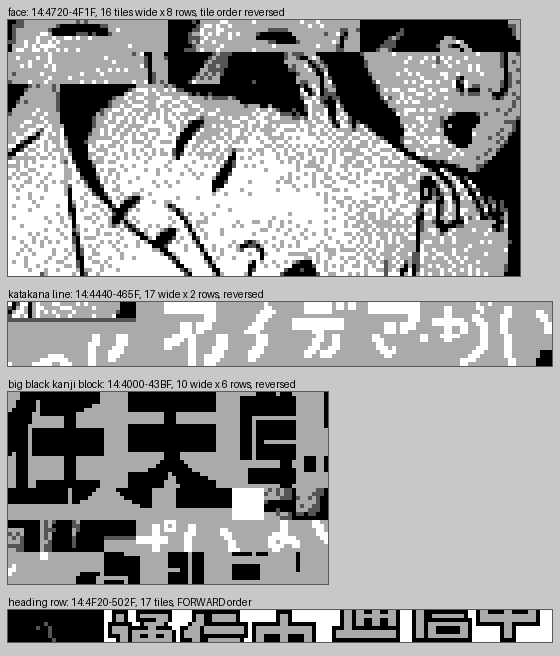
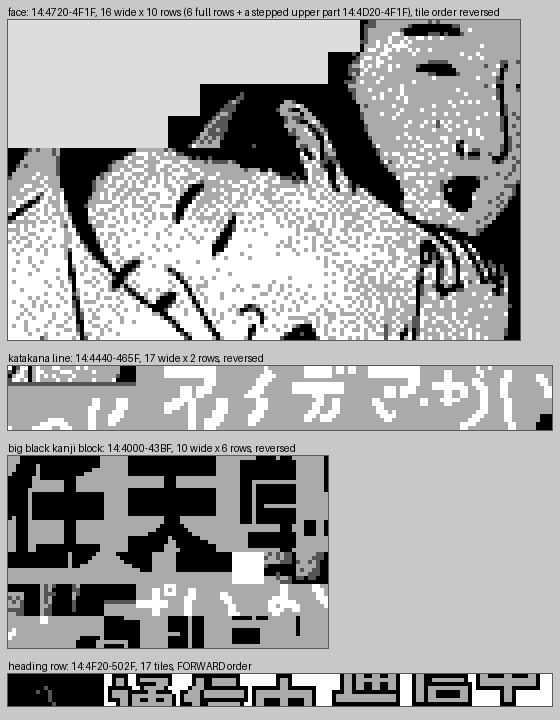
14:4720-4F1F face rebuilt: a 6 x 16 block plus a narrower right-aligned top piece
The two top rows of the 16 x 8 reading were wrong (seams 7-13 per tile edge). 14:4720-4D1F is a clean 6-row x 16 reversed block;
14:4D20-4F1F (32 tiles) is a narrower piece above it, pinned to the right edge, rows of 11, 10, 6 and 5 tiles (all vertical seams 2.2-5.4,
random pairs about 9.6). New 14_4720_face_reassembled.png, panel of 14_4000_strips_rearranged.png and rearrange_14_4000.py updated,
README 16.24 and the 14:4554 label note corrected. Evidence I: row lengths are the best reading, the upper-left corner has no stored tiles.

Claude-Session: https://claude.ai/code/session_01FyVRmHfUqNeQ8ayUFB5i6z

diff --git a/tcrf_check/tools/rearrange_14_4000.py b/tcrf_check/tools/rearrange_14_4000.py
@@ -3,9 +3,15 @@
 
 The block is a stack of tile strips of different widths, each stored with its tile order REVERSED: the last tile of a strip is its top-left
 tile, tile s has tile s+1 on its left and tile s+W above it, the tiles themselves are not flipped.  Found by edge continuity:
-  - the face (14:4720-4F1F, W = 16, 8 rows): seam cost of the right edge against the left edge of the next tile, 0.67 for "s+1 on the left"
+  - the face (14:4720-4F1F, 128 tiles = two pieces): seam cost of the right edge against the left edge of the next tile, 0.67 for "s+1 on the left"
     against 0.86 for the forward order, and of the bottom edge against the top edge, 0.67 for "s+16 above" against 1.09 for "s-16 above"
     (random pairs 1.21); the tile grid sits on $xxx0 (shifted by 4 bytes the vertical cost doubles);
+      * stream tiles 114-209 (14:4720-4D1F) are a clean 6 rows x 16 reversed block, face[r][c] = 209 - 16 r - c;
+      * stream tiles 210-241 (14:4D20-4F1F) are NOT the two top rows of a 16 x 8 block (those seams cost 7-13 per tile edge): they are a
+        narrower piece whose right edge is column 15, rows of 11, 10, 6 and 5 tiles from the bottom up (row start = rightmost tile, tiles run
+        right to left in ascending stream order).  Found by a right-aligned dynamic programme on the seam costs (mean edge cost per 8 px
+        seam 2.2-3.4 inside the rows, 2.2-3.5 against the row below; the 16-wide reading costs 7-13, an 11-wide reading 10.3 on its top row).
+        The tiles left of the steps, in the upper left corner, are not in the block: drawn as flat blue.
   - the heading row (stream tiles 242-258) is the exception: forward order, right-edge cost 69 against 144 reversed;
   - the widths of the two text strips (10 for the black kanji block, 17 for the katakana line) are read from the result, not proven.
 usage: rearrange_14_4000.py [ROM] [out.png]   (default ROM /home/claude/gbcam_jp/pocketcamera_jp.gb, env GBCAM_ROM, GBCAM_REPO)
@@ -36,9 +42,23 @@ def sheet(seq, w):
     return Image.fromarray(img).resize((w * 8 * SC, h * 8 * SC), Image.NEAREST)
 def addr(s): return '%04X' % (0x4000 + 16 * s)
 def rev(a, b, w): return sheet(T[a:b][::-1], w)
+# the face: 10 rows x 16 columns; None = no stored tile
+UP = [(237, 5), (231, 6), (221, 10), (210, 11)]       # (first stream tile = rightmost, length), top row first
+FACE = []
+for n, L in UP:
+    r = [None] * 16
+    for i in range(L): r[16 - L + i] = n + L - 1 - i
+    FACE.append(r)
+for r in range(6): FACE.append([209 - 16 * r - c for c in range(16)])
+def face_img(scale=SC):
+    img = np.zeros((len(FACE) * 8, 128, 3), np.uint8)
+    for r, row in enumerate(FACE):
+        for c, s in enumerate(row):
+            img[r * 8:r * 8 + 8, c * 8:c * 8 + 8] = (205, 225, 245) if s is None else PAL[T[s]][..., None]
+    return Image.fromarray(img).resize((128 * scale, len(FACE) * 8 * scale), Image.NEAREST)
 def fwd(a, b, w): return sheet(T[a:b], w)
 panels = [
-    ('face: 14:%s-%s, 16 tiles wide x 8 rows, tile order reversed' % (addr(114), '%04X' % (0x4000 + 16 * 242 - 1)), rev(114, 242, 16)),
+    ('face: 14:%s-%s, 16 wide x 10 rows (6 full rows + a stepped upper part 14:%s-%s), tile order reversed' % (addr(114), '%04X' % (0x4000 + 16 * 242 - 1), addr(210), '%04X' % (0x4000 + 16 * 242 - 1)), face_img().convert('L')),
     ('katakana line: 14:%s-%s, 17 wide x 2 rows, reversed' % (addr(68), '%04X' % (0x4000 + 16 * 102 - 1)), rev(68, 102, 17)),
     ('big black kanji block: 14:%s-%s, 10 wide x 6 rows, reversed' % (addr(0), '%04X' % (0x4000 + 16 * 60 - 1)), rev(0, 60, 10)),
     ('heading row: 14:%s-502F, 17 tiles, FORWARD order' % addr(242), fwd(242, 259, 17)),
@@ -51,3 +71,5 @@ for n, p in panels:
     d.text((8, y), n, fill=0); y += 14
     c.paste(p, (8, y)); d.rectangle((7, y - 1, 8 + p.size[0], y + p.size[1]), outline=90); y += p.size[1] + 12
 c.save(OUT); print(OUT, c.size)
+FACEOUT = os.path.join(os.path.dirname(OUT), '14_4720_face_reassembled.png')
+face_img(8).save(FACEOUT); print(FACEOUT)

diff --git a/README.md b/README.md
@@ -3116,7 +3116,7 @@ Table (one row per box of the charts; the node ids are the keys of `assets/guide
 
 **(2) `$2A` and `$28`: glyph banks (I).** `2A:4000-7FFF` is a glyph set: kana and ASCII glyph tiles in a small font (`tcrf_check/assets/never_read/bank2A_glyphs_*.png`, the never-read tiles tinted red). The red ones are, by eye, rows of voiced and semi-voiced katakana (ガ ギ グ ゲ ゴ … パ ピ プ ペ ポ forms, `bank2A_unread_katakana_7060-7440.png`) and of Latin letters (`bank2A_unread_latin_75D1-7A24.png`); individual glyphs were not listed. The sheet "Stamps (JPN)" (ripped by rabidrodent) matches 2,379 windows of `2A:5FFA-7886`, and 2,045 of the 2,663 untouched bytes of `$2A` (padding included) lie in windows that match it; the sheet brackets its small-font block (kana, ASCII) with the question "**Unused?**". Reading: this font block is real data whose tiles are not all drawn by the paths that were run; the sheet's question mark is the ripper's, not a finding. `28:4000-5FFF` is white-on-black Japanese text (`bank28_text_glyphs_4000-5FFF.png`, the red part is more kana text); the second half of `$28` is the credits ending picture ("Don't butter me up! Be happy!!"), which is read.
 
-**(3) The small holes (I).** In `$10` (20 B), `$17` (15 B), `$19` (16 B), `$1A` (31 B), `$1C` (78 B), `$1E` (11 B) the never-read bytes are 1-byte to 31-byte runs (a 64-byte run at `1C:5160-519F` is small icon tiles) that sit between organic reads by the generic copier `00:17E8` on both sides: bytes of tile blocks of which only some tiles are loaded. The only larger area is bank `$14`: `14:4000-502F` (259 tiles) is **not one picture and not 16 tiles wide as first read** (`bank14_banner_4000-47FF_16wide.png` is the wrong width). It is a stack of tile strips of different widths, **each stored with its tile order reversed** (the last tile of a strip is its top-left tile; the tiles themselves are not flipped: tile `s` has tile `s+1` on its left and tile `s+W` above it). Rearranged by edge continuity (width scan on the seams, then reading the result; `tcrf_check/assets/unidentified/14_4000_strips_rearranged.png`, 2026-10-13, asked by the owner): `14:4720-4F1F` is a clean **dithered manga picture, 16 tiles wide x 8 rows** (a face close-up, a second face shouting at the right); `14:4440-465F` a **katakana line** ("アイデアがい…", white on grey, 17 tiles wide x 2 rows, width the best reading); `14:4000-43BF` a **block of large black kanji** ("任天…", 10 tiles wide x 6 rows); `14:4F20-502F` a **heading row of 17 outlined kanji tiles in forward order** (the one strip that is not reversed, cost 69 against 144 reversed); `14:5030-57FF` is zero padding. The widths of the two text strips are the best reading, not proven, and where the strips meet (`14:4620-471F`, a grey row with white fragments) is not settled. The only code that read the area is the thumbnail reducer through the nibble expander `00:289C` (table at `00:36F0`), and it starts at `14:4554`, **not on a tile boundary** (`4554 mod 16 = 4`, while the picture's grid sits on `$xxx0`): the three bytes `54 45 54` at `02:527B` (inside the OAM pointer table at `02:5272`, read as entry 33 of the 30-entry `AlbumB_SlotTbl`, i.e. a photo number `$3F` reaching `Photo_GetSramAddress_Far`) decode to address `$4554`, bank `$54` = `$14` on the 6-bit mapper. So the read is a stray pointer (consistent with the start offset, not traced to the caller), and the display tracker follows these bytes to the screen for up to 21,196 frames (19,610 in organic runs) **only as a reduced thumbnail built by that reducer**, never as tiles: no code was seen that shows the strips themselves (I).
+**(3) The small holes (I).** In `$10` (20 B), `$17` (15 B), `$19` (16 B), `$1A` (31 B), `$1C` (78 B), `$1E` (11 B) the never-read bytes are 1-byte to 31-byte runs (a 64-byte run at `1C:5160-519F` is small icon tiles) that sit between organic reads by the generic copier `00:17E8` on both sides: bytes of tile blocks of which only some tiles are loaded. The only larger area is bank `$14`: `14:4000-502F` (259 tiles) is **not one picture and not 16 tiles wide as first read** (`bank14_banner_4000-47FF_16wide.png` is the wrong width). It is a stack of tile strips of different widths, **each stored with its tile order reversed** (the last tile of a strip is its top-left tile; the tiles themselves are not flipped: tile `s` has tile `s+1` on its left and tile `s+W` above it). Rearranged by edge continuity (width scan on the seams, then reading the result; `tcrf_check/assets/unidentified/14_4000_strips_rearranged.png`, 2026-10-13, asked by the owner): `14:4720-4F1F` is a clean **dithered manga picture, 16 tiles wide, in two pieces** (a face close-up, a second face shouting at the right; `tcrf_check/assets/unidentified/14_4720_face_reassembled.png`, rebuilt the same day at the owner's request): `14:4720-4D1F` (96 tiles) is a plain 6-row x 16 reversed block (`face[r][c] = 209 - 16r - c`), and `14:4D20-4F1F` (32 tiles) is **not** its two top rows (read that way the seams cost 7-13 per 8-pixel tile edge) but a narrower piece pinned to the right edge, rows of 11, 10, 6 and 5 tiles from the bottom up (found with a right-aligned dynamic programme on the seam costs; all vertical seams of the 10 rows cost 2.2-5.4 per 8-pixel edge, random pairs about 9.6, an 11-wide reading of the same 32 tiles 10.3 on its top row; the row lengths are the best reading, the tiles left of the steps are not in the block and are drawn flat blue; evidence I); `14:4440-465F` a **katakana line** ("アイデアがい…", white on grey, 17 tiles wide x 2 rows, width the best reading); `14:4000-43BF` a **block of large black kanji** ("任天…", 10 tiles wide x 6 rows); `14:4F20-502F` a **heading row of 17 outlined kanji tiles in forward order** (the one strip that is not reversed, cost 69 against 144 reversed); `14:5030-57FF` is zero padding. The widths of the two text strips are the best reading, not proven, and where the strips meet (`14:4620-471F`, a grey row with white fragments) is not settled. The only code that read the area is the thumbnail reducer through the nibble expander `00:289C` (table at `00:36F0`), and it starts at `14:4554`, **not on a tile boundary** (`4554 mod 16 = 4`, while the picture's grid sits on `$xxx0`): the three bytes `54 45 54` at `02:527B` (inside the OAM pointer table at `02:5272`, read as entry 33 of the 30-entry `AlbumB_SlotTbl`, i.e. a photo number `$3F` reaching `Photo_GetSramAddress_Far`) decode to address `$4554`, bank `$54` = `$14` on the 6-bit mapper. So the read is a stray pointer (consistent with the start offset, not traced to the caller), and the display tracker follows these bytes to the screen for up to 21,196 frames (19,610 in organic runs) **only as a reduced thumbnail built by that reducer**, never as tiles: no code was seen that shows the strips themselves (I).
 
 **(4) `$25`, `$26`, `$27`: BG tilemaps (I).** The untouched ranges are 32-byte rows in the format of the maps copied to `$9800` (`assets/catalog_jp.csv`): fill tiles (`$FE`, `$FF`, `$FD`) and the 16-wide photo ramp (`00-0F`, `10-1F`, … 14 rows, wrapping at `$80`) with icons at the sides, e.g. `25:4B80`: `ffffffff 000102030405060708090a0b0c0d0e0f ffffffffff fefe…`. `25:4A80-4DBF` sits between the maps copied from `25:47C0` and `25:4DC0`; `27:4772-486F` is a run of blank `$FD` rows right before the map copied from `27:4870`; the first two rows (tile ramp `00-27`, 20 wide) of the maps at `25:5080` and `25:5320` are not read while their other rows are; `26:4500-487F` has no neighbour in the catalog. No copy site that loads these rows was found; the tile set they index was not identified, so they were not rendered as pictures. `27:4AA0-4CAF` is a small 2bpp tile set.
 

diff --git a/disasm/sym_unconclusive_jp.md b/disasm/sym_unconclusive_jp.md
@@ -34,7 +34,7 @@ _Why doubtful:_ identified from the picture and the neighbouring assets only; no
 | 0D:7000 | `Gfx_0D_7000_FillPatternTiles` | 1632 | dot, crosshatch and dither fill tiles plus a few glyph pieces | dot, crosshatch and dither fill tiles plus a few glyph pieces (visual); no direct pointer, probably indexed by |
 | 10:7602 | `Gfx_10_7602_DjLetterGlyphStrip` | 678 | Latin letter / digit glyph strip | Latin letter / digit glyph strip (visual); bank 10 also holds the DJ screens' numeral tiles at 7400-7420 |
 | 11:5400 | `Gfx_11_5400_MainMenuUpperItemFramesA` | 256 | gap inside the animation tiles of the main-menu upper item (neighbours Gfx_11_5300 / Gfx_11_5500 are loaded by MainMenu_ | gap inside the animation tiles of the main-menu upper item (neighbours Gfx_11_5300 / Gfx_11_5500 are loaded by |
-| 14:4554 | `Banner_14_4554_ReversedStrips_Face` | 2780 | rest of the reversed strips: 14:4554-46xx tail of the katakana line, 14:4720-4F1F a clean dithered manga picture (16 til | rest of the reversed strips: 14:4554-46xx tail of the katakana line, 14:4720-4F1F a clean dithered manga pictu |
+| 14:4554 | `Banner_14_4554_ReversedStrips_Face` | 2780 | rest of the reversed strips: 14:4554-46xx tail of the katakana line, 14:4720-4F1F a clean dithered manga picture, 16 til | rest of the reversed strips: 14:4554-46xx tail of the katakana line, 14:4720-4F1F a clean dithered manga pictu |
 | 17:4000 | `Gfx_17_4000_ShootMenuIconsA` | 320 | icon row of the SHOOT-menu tile bank | icon row of the SHOOT-menu tile bank (visual); neighbours are loaded by Mode14_State00_Init |
 | 17:4200 | `Gfx_17_4200_ShootCounterIcons` | 1152 | digit / counter / clock icons (1 2 3 4, 1 2 2 1) of the SHOOT screens | digit / counter / clock icons (1 2 3 4, 1 2 2 1) of the SHOOT screens (visual); neighbours Shoot_LoadBurstIcon |
 | 17:4820 | `Gfx_17_4820_ShootMenuIconsB` | 288 | icon strip between Compose_DrawFreeCount and Mode14_State00_Init sets | icon strip between Compose_DrawFreeCount and Mode14_State00_Init sets (visual) |
